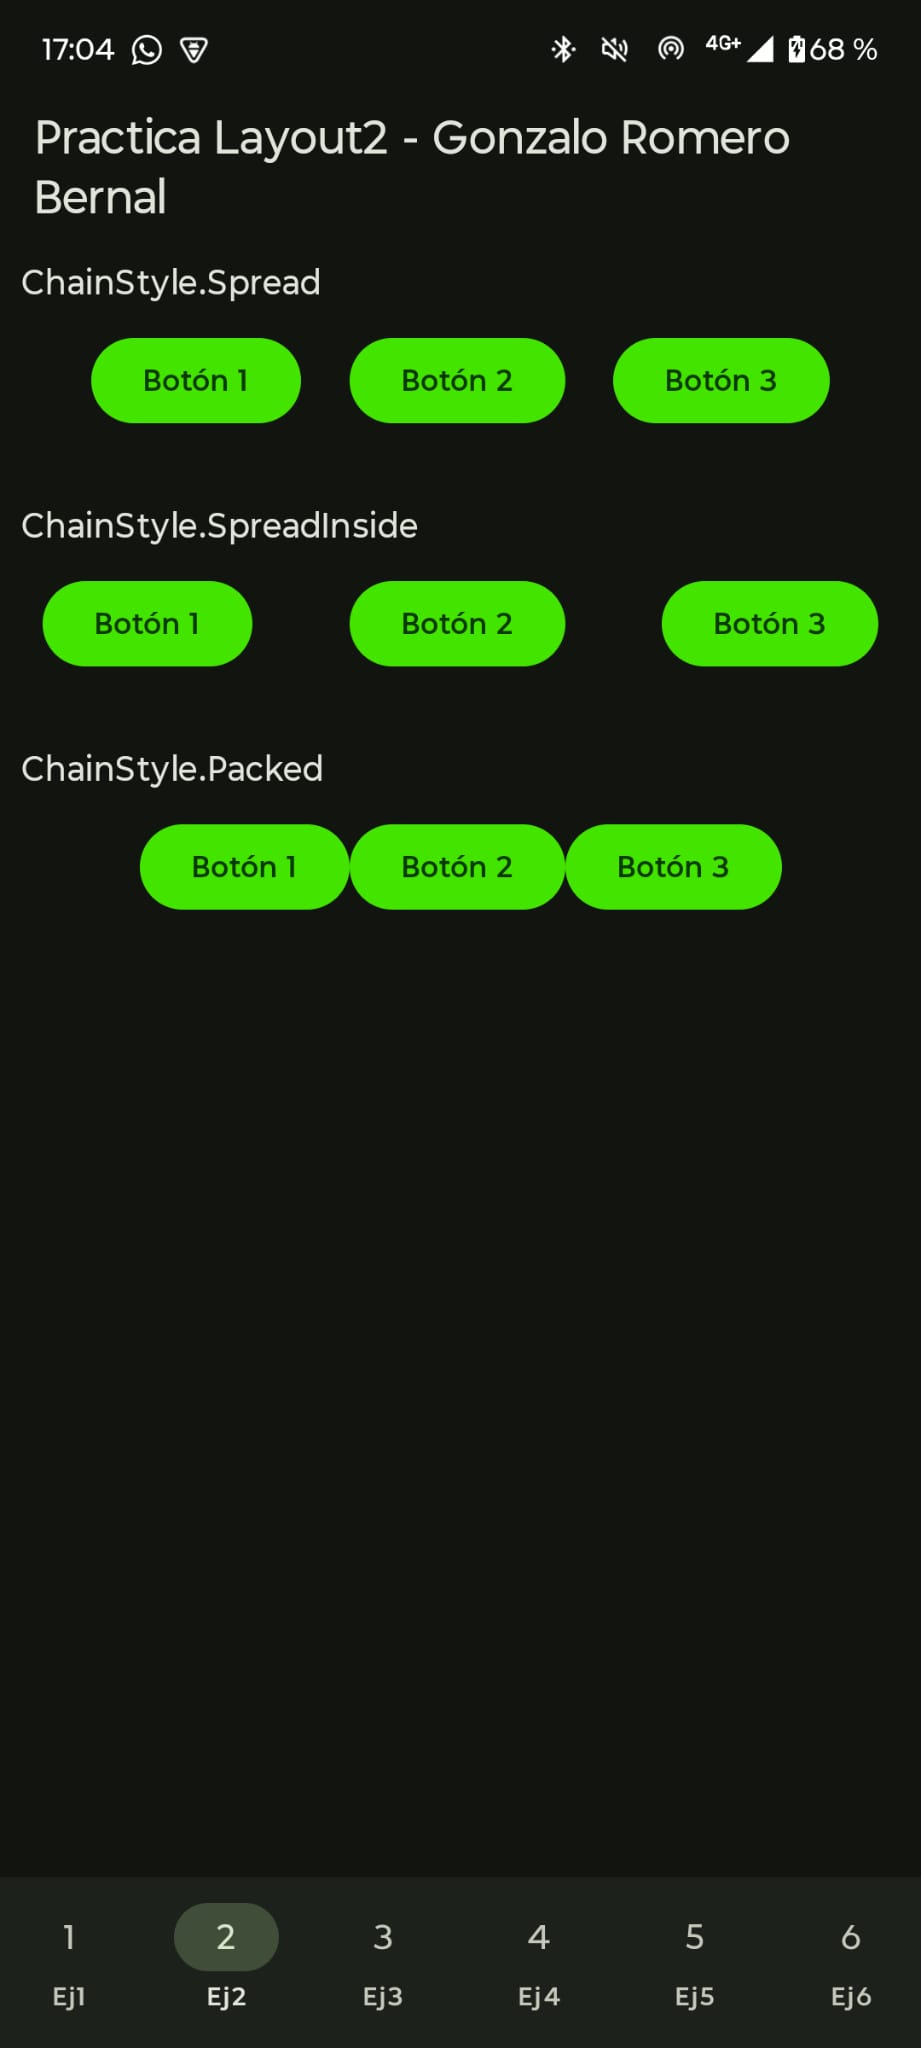
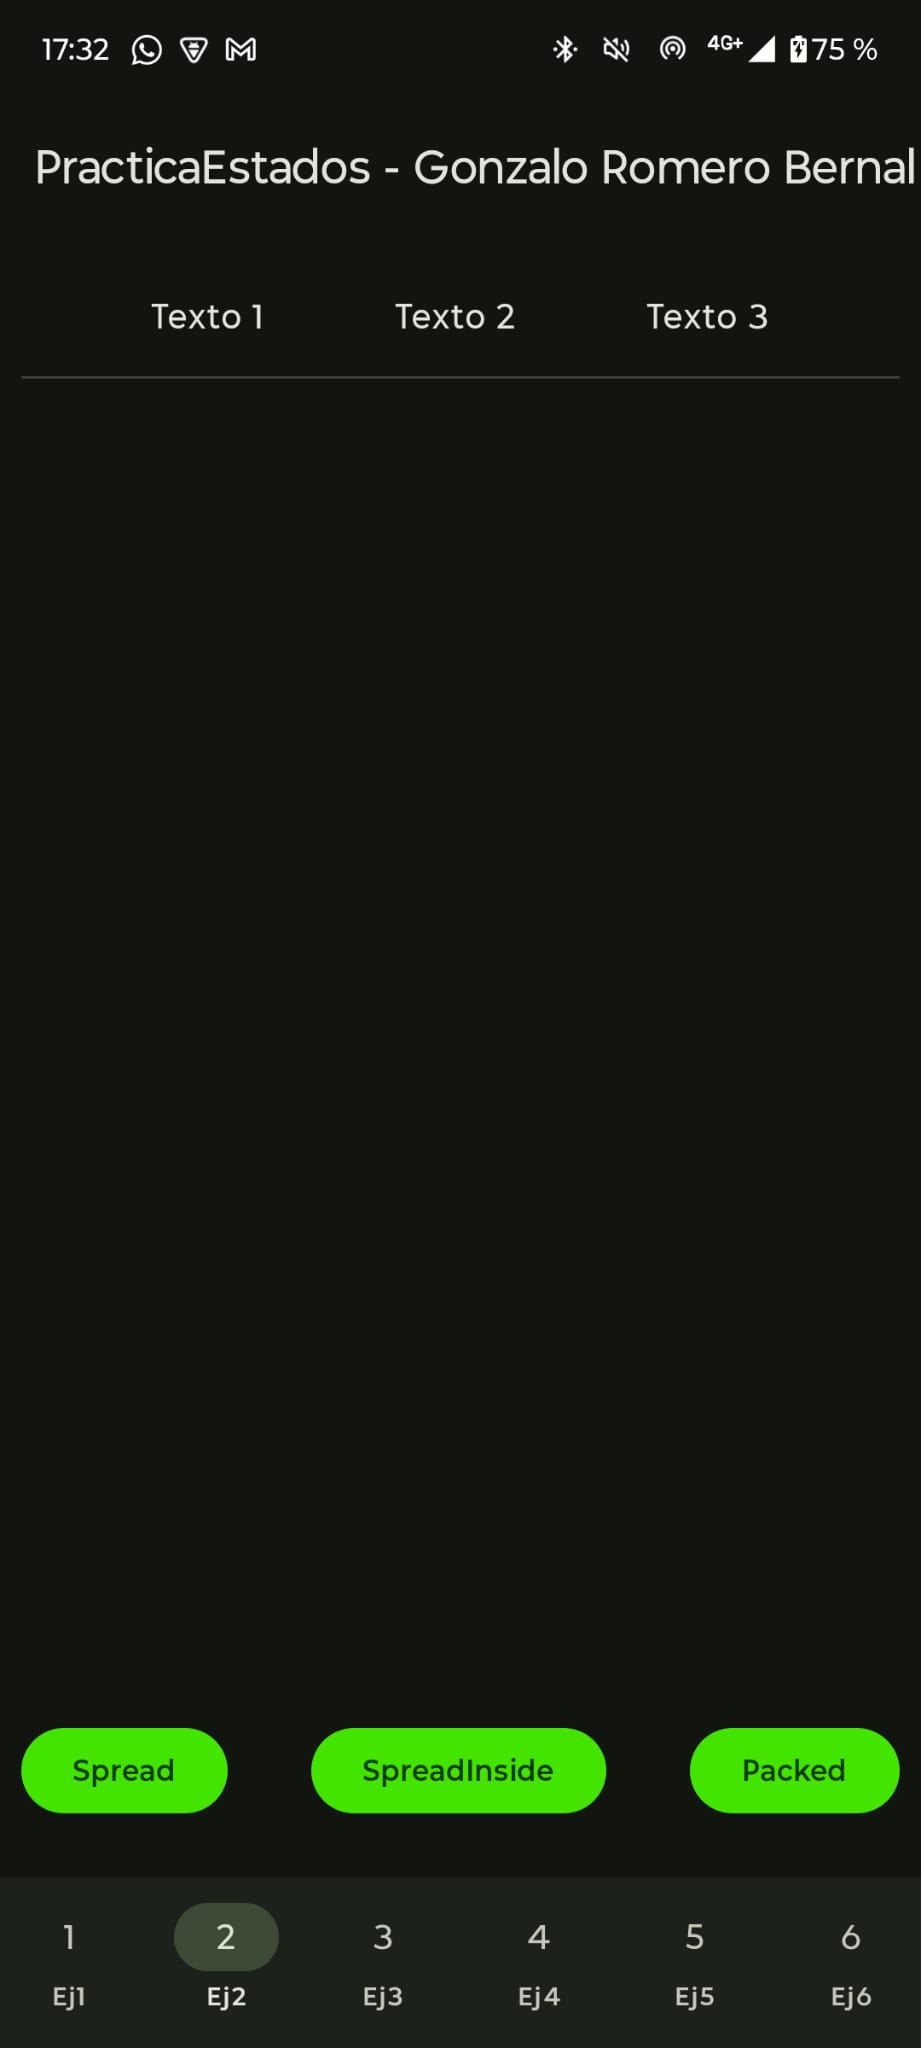
Refactor AccionesPrincipales component to simplify parameters and improve layout; update MainActivity to reflect changes in usage

diff --git a/app/src/main/java/com/gromber05/practicalayout2/Ejercicios/Ejercicio02AccionesPrincipales.kt b/app/src/main/java/com/gromber05/practicalayout2/Ejercicios/Ejercicio02AccionesPrincipales.kt
@@ -1,72 +1,104 @@
 package com.gromber05.practicalayout2.Ejercicios
 
-
 import android.widget.Toast
-import androidx.compose.foundation.layout.Spacer
-import androidx.compose.foundation.layout.fillMaxWidth
-import androidx.compose.foundation.layout.height
+import androidx.compose.foundation.layout.fillMaxSize
 import androidx.compose.foundation.layout.padding
 import androidx.compose.material3.Button
+import androidx.compose.material3.HorizontalDivider
 import androidx.compose.material3.Text
 import androidx.compose.runtime.Composable
+import androidx.compose.runtime.getValue
+import androidx.compose.runtime.mutableStateOf
+import androidx.compose.runtime.remember
+import androidx.compose.runtime.setValue
 import androidx.compose.ui.Modifier
 import androidx.compose.ui.platform.LocalContext
 import androidx.compose.ui.tooling.preview.Preview
-import androidx.compose.ui.unit.*
+import androidx.compose.ui.unit.dp
 import androidx.constraintlayout.compose.ChainStyle
 import androidx.constraintlayout.compose.ConstraintLayout
+import androidx.constraintlayout.compose.Dimension
 
 @Composable
-fun AccionesPrincipales(modifier: Modifier = Modifier, chainStyle: ChainStyle) {
+fun AccionesPrincipales(modifier: Modifier = Modifier) {
+    val context = LocalContext.current
+    var chainStyle by remember { mutableStateOf(ChainStyle.Spread) }
+
     ConstraintLayout(
-        modifier = modifier.padding(10.dp).fillMaxWidth().height(50.dp)
+        modifier = modifier
+            .fillMaxSize()
+            .padding(10.dp)
     ) {
-        val (buttonARef, buttonBRef, buttonCRef) = createRefs()
-        val context = LocalContext.current
+        val (dividerRef, t1Ref, t2Ref, t3Ref, b1Ref, b2Ref, b3Ref) = createRefs()
 
-        Button(
-            onClick = { Toast.makeText(context, "1", Toast.LENGTH_SHORT).show() },
-            modifier = Modifier.constrainAs(buttonARef) {
-                top.linkTo(parent.top)
+        Text(
+            text = "Texto 1",
+            modifier = Modifier.constrainAs(t1Ref) {
+                top.linkTo(parent.top, 16.dp)
+                start.linkTo(parent.start)
             }
-        ) { Text("Botón 1") }
-
-        Button(
-            onClick = { Toast.makeText(context, "2", Toast.LENGTH_SHORT).show() },
-            modifier = Modifier.constrainAs(buttonBRef) {
-                top.linkTo(parent.top)
-            }
-        ) { Text("Botón 2") }
-
-        Button(
-            onClick = { Toast.makeText(context, "3", Toast.LENGTH_SHORT).show() },
-            modifier = Modifier.constrainAs(buttonCRef) {
-                top.linkTo(parent.top)
-            }
-        ) { Text("Botón 3") }
-
-        createHorizontalChain(
-            buttonARef, buttonBRef, buttonCRef,
-            chainStyle = chainStyle
         )
+        Text(
+            text = "Texto 2",
+            modifier = Modifier.constrainAs(t2Ref) {
+                top.linkTo(parent.top, 16.dp)
+            }
+        )
+        Text(
+            text = "Texto 3",
+            modifier = Modifier.constrainAs(t3Ref) {
+                top.linkTo(parent.top, 16.dp)
+                end.linkTo(parent.end)
+            }
+        )
+
+        createHorizontalChain(t1Ref, t2Ref, t3Ref, chainStyle = chainStyle)
+
+        HorizontalDivider(
+            Modifier.constrainAs(dividerRef) {
+                top.linkTo(t1Ref.bottom, 16.dp)
+                start.linkTo(parent.start)
+                end.linkTo(parent.end)
+                width = Dimension.fillToConstraints
+            }
+        )
+
+        Button(
+            onClick = {
+                Toast.makeText(context, "Spread", Toast.LENGTH_SHORT).show()
+                chainStyle = ChainStyle.Spread
+            },
+            modifier = Modifier.constrainAs(b1Ref) {
+                bottom.linkTo(parent.bottom, 16.dp)
+            }
+        ) { Text("Spread") }
+
+        Button(
+            onClick = {
+                Toast.makeText(context, "SpreadInside", Toast.LENGTH_SHORT).show()
+                chainStyle = ChainStyle.SpreadInside
+            },
+            modifier = Modifier.constrainAs(b2Ref) {
+                bottom.linkTo(parent.bottom, 16.dp)
+            }
+        ) { Text("SpreadInside") }
+
+        Button(
+            onClick = {
+                Toast.makeText(context, "Packed", Toast.LENGTH_SHORT).show()
+                chainStyle = ChainStyle.Packed
+            },
+            modifier = Modifier.constrainAs(b3Ref) {
+                bottom.linkTo(parent.bottom, 16.dp)
+            }
+        ) { Text("Packed") }
+
+        createHorizontalChain(b1Ref, b2Ref, b3Ref, chainStyle = ChainStyle.SpreadInside)
     }
-
 }
 
 @Preview
 @Composable
-fun PreviewSpread() {
-    AccionesPrincipales(Modifier, ChainStyle.Spread)
+fun PreviewAccionesPrincipales() {
+    AccionesPrincipales()
 }
-
-@Preview
-@Composable
-fun PreviewSpreadInside() {
-    AccionesPrincipales(Modifier, ChainStyle.SpreadInside)
-}
-
-@Preview
-@Composable
-fun PreviewPacked() {
-    AccionesPrincipales(Modifier, ChainStyle.Packed)
-} 

diff --git a/app/src/main/java/com/gromber05/practicalayout2/MainActivity.kt b/app/src/main/java/com/gromber05/practicalayout2/MainActivity.kt
@@ -53,7 +53,7 @@ fun AppPrincipal() {
     Scaffold(
         topBar = {
             TopAppBar(title = {
-                Text("Practica Layout2 - Gonzalo Romero Bernal")
+                Text("PracticaEstados - Gonzalo Romero Bernal")
             })
 
         },
@@ -101,21 +101,7 @@ fun AppPrincipal() {
         Box(Modifier.padding(innerPadding)) {
             when (pantallaActual) {
                 0 -> FichaProducto()
-                1 -> {
-                    Column(
-                        modifier = Modifier.fillMaxSize().padding(10.dp)
-                    ) {
-                        Text(text = "ChainStyle.Spread", fontSize = 16.sp)
-                        AccionesPrincipales(Modifier, ChainStyle.Spread)
-                        Spacer(Modifier.padding(10.dp))
-                        Text(text = "ChainStyle.SpreadInside", fontSize = 16.sp)
-                        AccionesPrincipales(Modifier, ChainStyle.SpreadInside)
-                        Spacer(Modifier.padding(10.dp))
-                        Text(text = "ChainStyle.Packed", fontSize = 16.sp)
-                        AccionesPrincipales(Modifier, ChainStyle.Packed)
-                    }
-
-                }
+                1 -> AccionesPrincipales()
                 2 -> ColoresEstado()
                 3 -> ContadorDoble()
                 4 -> InterruptorVisibilidad()
